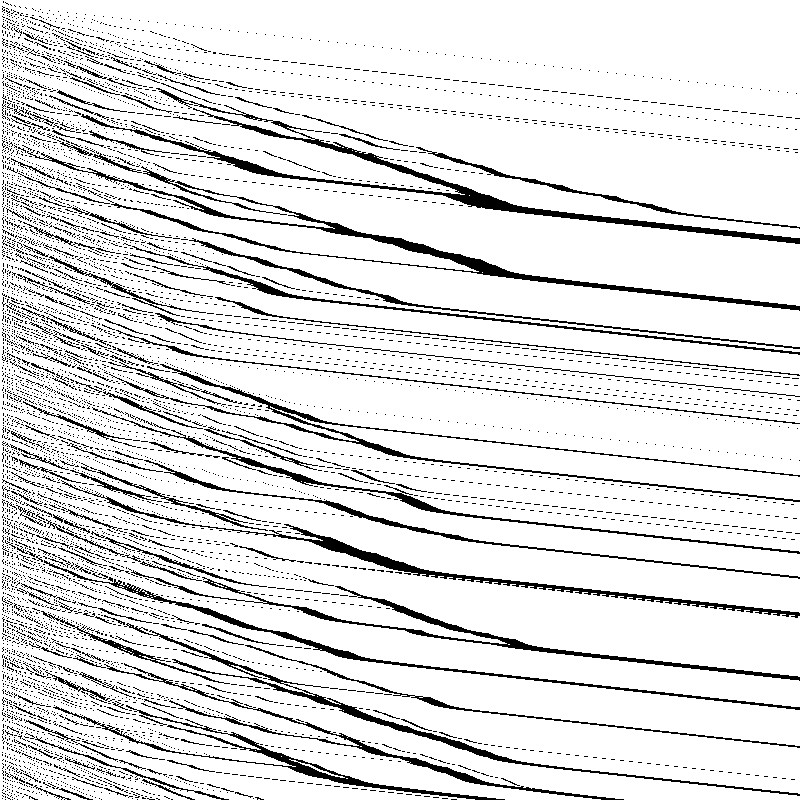
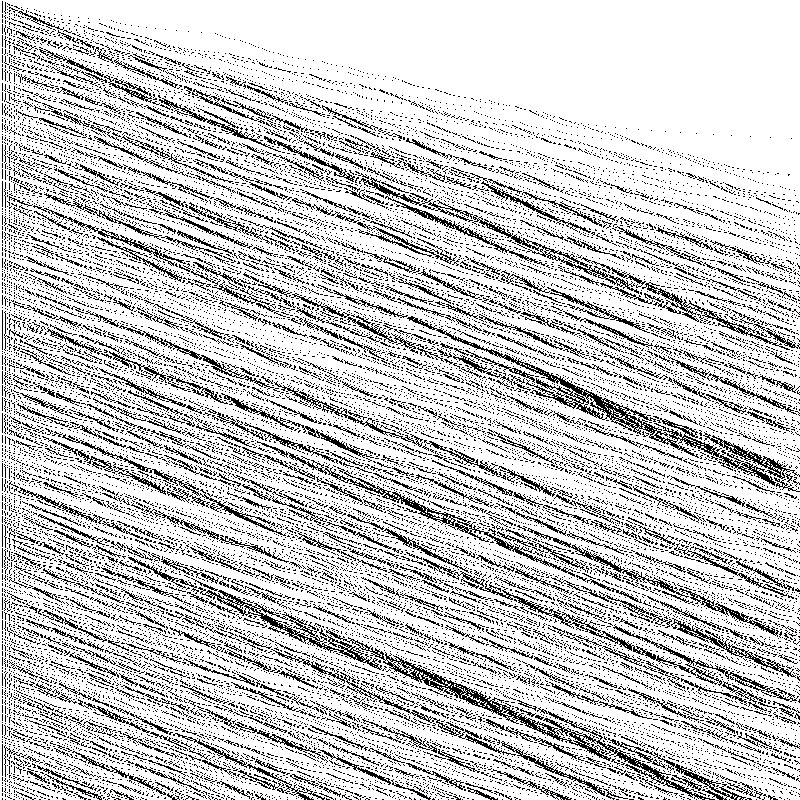
finalize

Changed region(s): [[0.0, 0.0, 1.0, 1.0]]

diff --git a/MCTrafikJam.m b/MCTrafikJam.m
@@ -1,5 +1,5 @@
-maxSpeed=10;
-initSpeed=2;
+maxSpeed=40;
+initSpeed=1;
 car=[];
 speed=[];
 carFig=[];
@@ -16,7 +16,7 @@ for(i=1:800)
         if car(j)==1
             
             slowDownDice=randsample(1:10,1);
-            if (slowDownDice<4)
+            if (slowDownDice<3)
                         speed(j)=initSpeed;
             end
             vibMaxSpeed=maxSpeed+randsample(0:3,1);
@@ -57,7 +57,7 @@ for(i=1:800)
     
     
     newCarDice=randsample(1:10,1);
-    if (newCarDice<8)&&(car(1)==0)
+    if (newCarDice<9)&&(car(1)==0)
         car(1)=1;
         speed(1)=initSpeed;
     end
